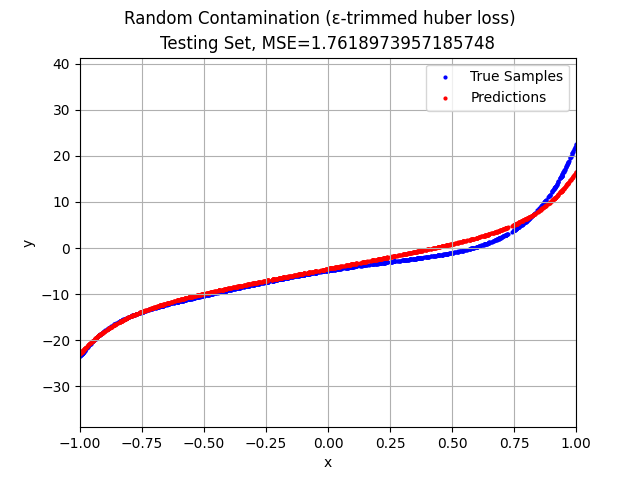
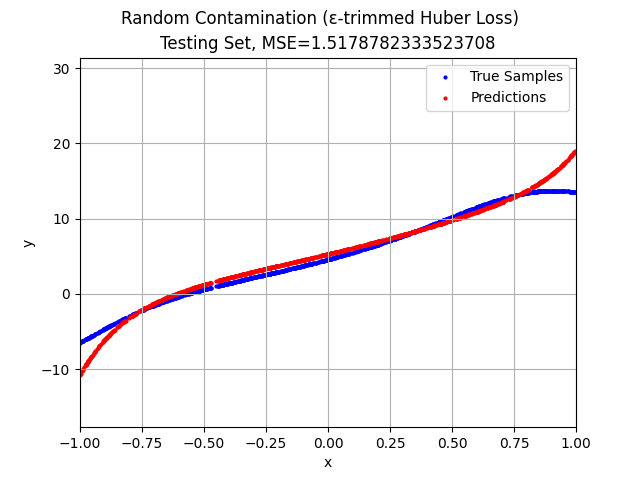
ε-trimmed Huber Loss with Mean-kernel Preprocessor

diff --git a/tests/random_contamination.py b/tests/random_contamination.py
@@ -46,7 +46,7 @@ markdown_str += export_figures(
     x_testing,
     y_testing,
     predicted_y_testing,
-    "Random Contamination (naive)",
+    "Random Contamination (Naive)",
     join("random_contamination", "naive")
 )
 # naive model test end
@@ -74,12 +74,46 @@ markdown_str += export_figures(
     x_testing,
     y_testing,
     predicted_y_testing,
-    "Random Contamination (ε-trimmed huber loss)",
+    "Random Contamination (ε-trimmed Huber Loss)",
     join("random_contamination", "epsilon_trimmed_huber_loss")
 )
 # epsilon-trimmed huber loss test end
 
 # mean-kernel preprocessor test begin
+preprocessor = MeanKernelPreprocessor(
+    (0.1, 5),
+    (0.02, 1),
+    0.01
+)
+regressor = PolynomialRegressor(
+    power,
+    NullRegularization(),
+    EpsilonTrimmedHuberLoss(epsilon, 20),
+    0.01,
+    100,
+    100000
+)
+transformed_x, transformed_y = preprocessor(x_training, y_training)
+regressor.fit(transformed_x, transformed_y)
+
+predicted_y_training = regressor.predict(x_training)
+predicted_y_testing = regressor.predict(x_testing)
+markdown_str += export_figures(
+    x_training,
+    y_training,
+    contamination_indices,
+    transformed_x,
+    transformed_y,
+    predicted_y_training,
+    x_testing,
+    y_testing,
+    predicted_y_testing,
+    "Random Contamination (Mean-kernel Preprocessor)",
+    join("random_contamination", "mean_kernel_preprocessor")
+)
+# mean-kernel preprocessor test end
+
+# epsilon-trimmed huber loss with mean-kernel preprocessor test begin
 preprocessor = MeanKernelPreprocessor(
     (0.1, 5),
     (0.02, 1),
@@ -108,9 +142,10 @@ markdown_str += export_figures(
     x_testing,
     y_testing,
     predicted_y_testing,
-    "Random Contamination (mean-kernel preprocessor)",
-    join("random_contamination", "mean_kernel_preprocessor")
+    "Random Contamination (ε-trimmed Huber Loss with Mean-kernel Preprocessor)",
+    join("random_contamination",
+         "epsilon_trimmed_huber_loss_with_mean_kernel_preprocessor")
 )
-# mean-kernel preprocessor test end
+# epsilon-trimmed huber loss with mean-kernel preprocessor test end
 
 # print(markdown_str)

diff --git a/README.md b/README.md
@@ -32,6 +32,10 @@ python3 -m tests
 
 For all the tests, we were fitting on 9-degree polynomials (with 10 mutually independent weights, including the bias term) with noise ~ 𝒩(0, Var(y)) and ε = 0.49.
 
-| Test Name | Naive Training | Naive Testing | ε-trimmed Huber Loss Training | ε-trimmed Huber Loss Testing | Mean-kernel Preprocessor Training | Mean-kernel Preprocessor Testing |
-| - | - | - | - | - | - | - |
-| Random Contamination | ![](test_results/random_contamination/naive/training.png) | ![](test_results/random_contamination/naive/testing.png) | ![](test_results/random_contamination/epsilon_trimmed_huber_loss/training.png) | ![](test_results/random_contamination/epsilon_trimmed_huber_loss/testing.png) | ![](test_results/random_contamination/mean_kernel_preprocessor/training.png) | ![](test_results/random_contamination/mean_kernel_preprocessor/testing.png) |
+<div style="overflow-x: scroll" markdown="block">
+
+| Test Name | Naive Training | Naive Testing | ε-trimmed Huber Loss Training | ε-trimmed Huber Loss Testing | Mean-kernel Preprocessor Training | Mean-kernel Preprocessor Testing | ε-trimmed Huber Loss with Mean-kernel Preprocessor Training | ε-trimmed Huber Loss with Mean-kernel Preprocessor Testing |
+| - | - | - | - | - | - | - | - | - |
+| Random Contamination | ![](test_results/random_contamination/naive/training.png) | ![](test_results/random_contamination/naive/testing.png) | ![](test_results/random_contamination/epsilon_trimmed_huber_loss/training.png) | ![](test_results/random_contamination/epsilon_trimmed_huber_loss/testing.png) | ![](test_results/random_contamination/mean_kernel_preprocessor/training.png) | ![](test_results/random_contamination/mean_kernel_preprocessor/testing.png) | ![](test_results/random_contamination/epsilon_trimmed_huber_loss_with_mean_kernel_preprocessor/training.png) | ![](test_results/random_contamination/epsilon_trimmed_huber_loss_with_mean_kernel_preprocessor/testing.png) |
+
+</div>
